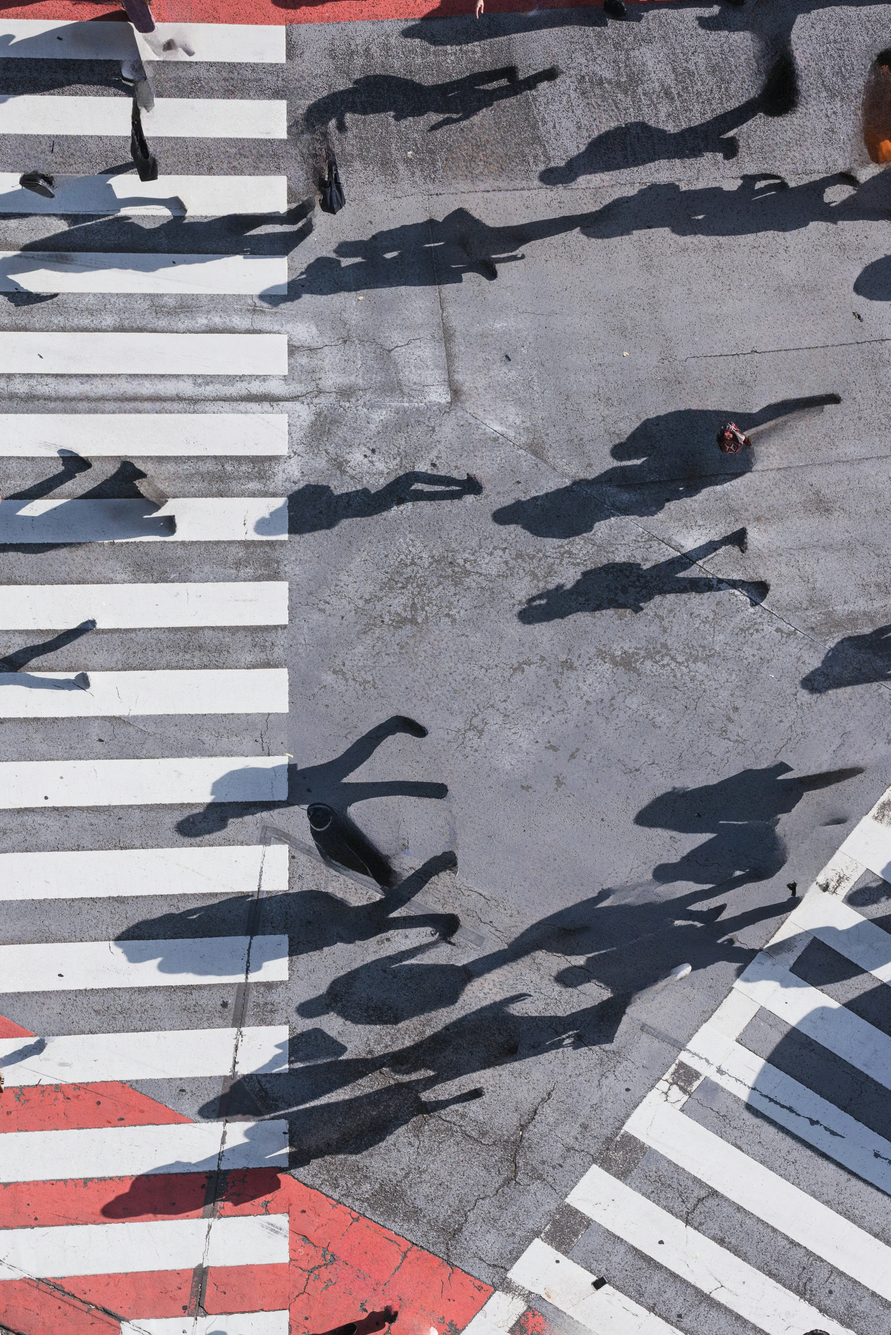
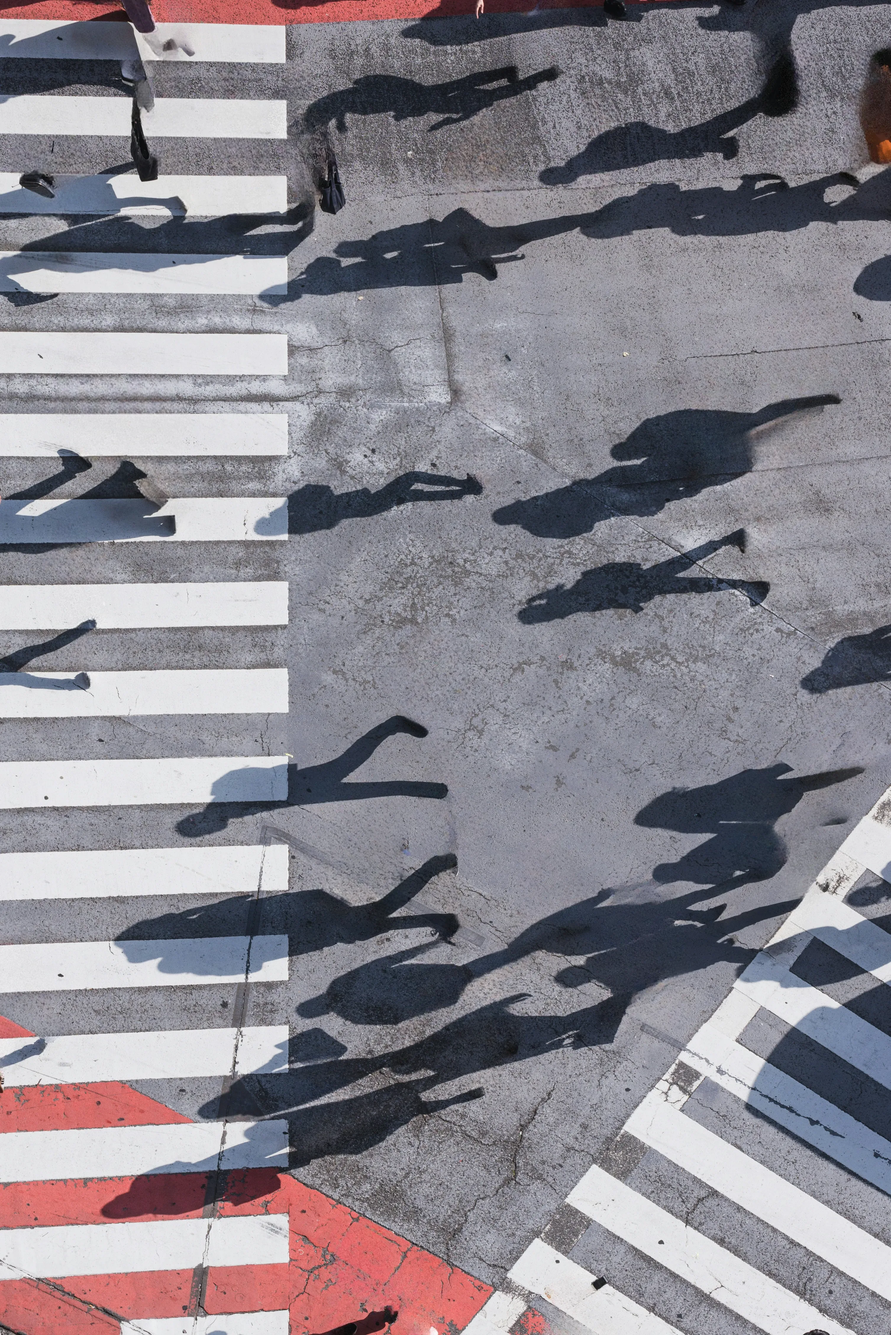
Lab: climb concourse round 1
Claude-Session: https://claude.ai/code/session_01RqENhngNCzDFmJWDZueXGV

diff --git a/src/app/lab/concourse/concourseEngine.js b/src/app/lab/concourse/concourseEngine.js
@@ -206,28 +206,26 @@ void main() {
   if (vFace < 0.5) {
     vec2 uv = photoPx(vRest) / uPhoto;
     vec3 a = texture(uFloor, uv).rgb;
-    // A lightbox: a diffuser lit evenly from inside. The road's tone is
-    // compressed almost flat (a fifteenth power keeps about 15% of the
-    // asphalt's grain and the stripes' contrast) ...
-    float l = luma(a);
-    float detail = pow(clamp(l / 0.34, 0.2, 3.0), 0.15);
-    // ... and the only real dark on it is the person's own shadow, read
-    // from a softened copy of the road (sunlit asphalt sits near 0.3, a
-    // shadow under 0.05) and laid on as a soft multiply
-    float ls = luma(texture(uFloor, uv, 3.0).rgb);
-    float shade = 1.0 - smoothstep(0.035, 0.17, ls);
-    detail = mix(detail, 1.0, shade); // the grain inside a shadow is the shadow's
-    float shadow = mix(1.0, 0.42, shade);
-    // brightest in the middle of the panel, easing off towards its frame
+    // A lightbox: the tile's patch of road is a transparency on a diffuser
+    // lit from inside. What comes through is the road itself, its asphalt
+    // (about 0.26 linear) and its stripes (about 0.78) scaled by the panel's
+    // gain, so the grain, the stripe edges and the person's own shadow all
+    // stay in the print ...
     vec2 r = (vUv - 0.5) * 2.0;
     float d2 = dot(r * r, vec2(0.5)) + 0.5 * max(r.x * r.x, r.y * r.y);
-    float grad = 1.06 - 0.24 * d2;
+    // ... the lamp behind it sits in the middle, so the panel is hottest
+    // there and falls off softly towards its frame ...
+    float centre = exp(-1.9 * d2);
+    float gain = (uRed > 0.5 ? 2.2 : 1.85) * (0.68 + 0.6 * centre);
+    // ... with a little of the lamp showing straight through the print
+    vec3 gel = uRed > 0.5 ? vec3(1.3, 0.05, 0.025) : uLight;
+    vec3 x = gel * uEmit * (a * gain + 0.07 * centre);
+    // the diffuser saturates softly: the stripes land near paper white
+    // without flattening, the asphalt stays a grainy light grey
+    const float W = 1.02;
+    vec3 panel = W * (1.0 - exp(-x / W));
     float frame = smoothstep(0.0, 0.035, min(min(vUv.x, 1.0 - vUv.x), min(vUv.y, 1.0 - vUv.y)));
-    grad *= 0.8 + 0.2 * frame;
-    // white panels are a warm paper white; a red gel runs hot in the middle,
-    // where the light through it is strongest
-    vec3 Lt = uRed > 0.5 ? mix(vec3(1.1, 0.035, 0.018), vec3(1.45, 0.15, 0.07), smoothstep(0.8, 0.0, d2)) : uLight * 1.5;
-    vec3 panel = Lt * uEmit * detail * shadow * grad;
+    panel *= 0.82 + 0.18 * frame;
     // the road goes to the panel as the lights go out
     float lb = smoothstep(0.08, 0.8, uGlow);
     o = vec4(mix(a, panel, lb), 1.0);
@@ -308,25 +306,19 @@ void main() {
   vec2 sz = uRect.zw - uRect.xy;
   if (q.x < 0.0 || q.y < 0.0 || q.x > sz.x || q.y > sz.y) discard;
   vec4 c = texture(uAtlas, (q + uAt) / uAtlasSize);
-  // choke the matte's outer tenth: that rim is part road (often a white
-  // stripe), which reads as a halo once the road is gone
-  c.a = clamp((c.a - 0.22) / 0.78, 0.0, 1.0);
+  // the bake choked the matte and bled the person's own colour into its rim
+  // (defringe.py); a last small choke keeps the very edge off the road
+  c.a = clamp((c.a - 0.1) / 0.9, 0.0, 1.0);
   if (c.a < 0.004) discard;
-  // Up-light from the panel under their feet: strongest at the shoes, gone
-  // by the waist; a red gel reaches further and washes them in its colour.
-  // The street's daylight goes out with the lights, so above it they settle.
-  float reach = uRed > 0.5 ? 0.7 : 0.34;
-  float f = exp(-vH / reach);
-  vec3 day = c.rgb * mix(1.0, 0.68 + 0.32 * f, uGlow);
-  vec3 up = uLight * uEmit * f;
-  // the light wraps round their outline (trouser seams, shoe edges, hems):
-  // a rim wherever the matte thins out within a few pixels
-  vec2 at = (q + uAt) / uAtlasSize, px = 3.0 / uAtlasSize;
+  // They keep the photograph's colour: the panel lights the road, not them.
+  // All it gives them is a thin rim where the light grazes their lower
+  // outline (shoe edges, hems), gone by the knee.
+  vec2 at = (q + uAt) / uAtlasSize, px = 1.5 / uAtlasSize;
   float m = min(min(texture(uAtlas, at + vec2(px.x, 0.0)).a, texture(uAtlas, at - vec2(px.x, 0.0)).a),
                 min(texture(uAtlas, at + vec2(0.0, px.y)).a, texture(uAtlas, at - vec2(0.0, px.y)).a));
-  float rim = 1.0 - smoothstep(0.3, 0.95, m);
-  float red = uRed > 0.5 ? 1.0 : 0.0;
-  vec3 lit = day * (1.0 + up * mix(1.6, 3.0, red)) + up * (mix(0.12, 0.7, red) + rim * mix(0.7, 2.4, red));
+  float rim = 1.0 - smoothstep(0.35, 0.95, m);
+  float low = exp(-vH / 0.12);
+  vec3 lit = c.rgb + uLight * uEmit * rim * low * (uRed > 0.5 ? 1.1 : 0.45);
   o = vec4(lit * c.a * uDim, c.a);
 }`;
 

diff --git a/tools/depth/bakes/concourse/plate_patch.py b/tools/depth/bakes/concourse/plate_patch.py
@@ -1,0 +1,112 @@
+"""Step 4 (optional): patch what the people-free plate still shows of people.
+
+    python3 -I tools/depth/bakes/concourse/plate_patch.py <outdir>
+
+Run on the baked assets (floor.webp, people.webp, scene.json in <outdir>).
+The tile tops print the plate at a lightbox's gain, so leftovers that read
+as dark road under the old flat panel show plainly: a trouser leg LaMa
+never repainted, a shoe the matte missed, a figure the detector never
+found. Two kinds of hole, each refilled with LaMa and the road's own grain:
+
+  residue  under every person's matte, the pixels where the plate still
+           matches the photograph's colour (which the atlas carries), i.e.
+           the person was never painted out there: closed, kept where it
+           forms a patch of 150 px or more, grown 5 px.
+  boxes    BOXES below, export px, for what no matte covers.
+
+Only holes that reach a tile's footprint or its spill are refilled.
+
+Writes floor.webp in place. It is safe to run twice: a patched spot no
+longer matches the atlas, and a box refilled again is still plain road.
+"""
+import sys
+import os
+import json
+
+import numpy as np
+import cv2
+from PIL import Image
+
+HERE = os.path.dirname(os.path.abspath(__file__))
+sys.path.insert(0, os.path.join(HERE, "..", ".."))
+import kit  # noqa: E402
+import fill as fillmod  # noqa: E402
+
+# x0, y0, x1, y1 in export px
+BOXES = [
+    (2412, 1414, 2550, 1538),  # a figure in a plaid shirt the detector missed (tile 9)
+    (2254, 3244, 2349, 3321),  # a white shoe left behind (tiles 17, 20)
+    (2648, 2964, 2708, 3042),  # a dark hand or hair blob (tile 17)
+    (1036, 2700, 1350, 3030),  # a figure in black LaMa grew back beside person 26 (tile 18)
+]
+
+OUT = sys.argv[1]
+S = json.load(open(os.path.join(OUT, "scene.json")))
+plate = np.asarray(Image.open(os.path.join(OUT, "floor.webp")).convert("RGB")).astype(np.float32) / 255
+atlas = np.asarray(Image.open(os.path.join(OUT, "people.webp")).convert("RGBA")).astype(np.float32) / 255
+EH, EW = plate.shape[:2]
+
+hole = np.zeros((EH, EW), bool)
+for p in S["people"]:
+    x0, y0, x1, y1 = p["rect"]
+    ax, ay = p["at"]
+    w, h = x1 - x0, y1 - y0
+    A = atlas[ay:ay + h, ax:ax + w]
+    F = plate[y0:y0 + h, x0:x0 + w]
+    same = (A[..., 3] > 0.5) & (np.abs(A[..., :3] - F).max(-1) < 0.055)
+    # a leftover is a patch; scattered specks are a dark coat that happens to
+    # match dark road
+    same = cv2.morphologyEx(same.astype(np.uint8), cv2.MORPH_CLOSE, cv2.getStructuringElement(cv2.MORPH_ELLIPSE, (9, 9))) > 0
+    n, cc, st, _ = cv2.connectedComponentsWithStats(same.astype(np.uint8), 8)
+    keep = np.zeros_like(same)
+    for k in range(1, n):
+        if st[k, cv2.CC_STAT_AREA] >= 150:
+            keep |= cc == k
+    hole[y0:y0 + h, x0:x0 + w] |= keep
+for x0, y0, x1, y1 in BOXES:
+    hole[y0:y1, x0:x1] = True
+hole = kit.dilate(hole, 5)
+# only the road a slab prints or its light spills on matters; everything
+# else goes dark with the street
+N_, D_, E1, E2 = (np.array(S[k], np.float64) for k in ("n", "d", "e1", "e2"))
+f_, cx_, cy_ = S["f"], S["cx"], S["cy"]
+near = np.zeros_like(hole)
+for t in S["tiles"]:
+    u0, v0, u1, v1 = t["r"]
+    pad = 0.5  # m, the spill's reach
+    pts = []
+    for u, v in ((u0 - pad, v0 - pad), (u1 + pad, v0 - pad), (u1 + pad, v1 + pad), (u0 - pad, v1 + pad)):
+        X = u * E1 + v * E2
+        X = X - N_ * (X @ N_ + D_)
+        pts.append((f_ * X[0] / X[2] + cx_, f_ * X[1] / X[2] + cy_))
+    m = np.zeros(hole.shape, np.uint8)
+    cv2.fillConvexPoly(m, np.round(np.array(pts)).astype(np.int32), 1)
+    near |= m > 0
+n0, cc0 = cv2.connectedComponents(hole.astype(np.uint8), connectivity=8)
+touch = np.unique(cc0[near & hole])
+hole = np.isin(cc0, touch[touch > 0])
+print("hole px", int(hole.sum()))
+
+n, cc, st, _ = cv2.connectedComponentsWithStats(hole.astype(np.uint8), 8)
+print("holes", n - 1, "largest", int(st[1:, cv2.CC_STAT_AREA].max()) if n > 1 else 0, flush=True)
+if os.environ.get("DRY") == "1":
+    sys.exit(0)
+# one LaMa pass per hole at 512 on a crop round it (as plate_fix.py), the
+# road's grain matched back in, the edge feathered a few px into the plate
+lama = fillmod.Lama(threads=4)
+for k in range(1, n):
+    x, y, w, h = st[k, :4]
+    side = min(min(EW, EH), max(int(max(w, h) * 2.4), 160))
+    cx, cy = x + w // 2, y + h // 2
+    X0, Y0 = int(np.clip(cx - side // 2, 0, EW - side)), int(np.clip(cy - side // 2, 0, EH - side))
+    crop = plate[Y0:Y0 + side, X0:X0 + side]
+    sh = cc[Y0:Y0 + side, X0:X0 + side] == k
+    rgb = cv2.resize(crop, (512, 512), interpolation=cv2.INTER_AREA)
+    hm = cv2.resize(sh.astype(np.uint8), (512, 512), interpolation=cv2.INTER_NEAREST) > 0
+    hm = kit.dilate(hm, 1)
+    back = cv2.resize(lama(rgb, hm), (side, side), interpolation=cv2.INTER_CUBIC)
+    back = fillmod.match_grain(back, crop, sh, seed=int(k))
+    wgt = cv2.GaussianBlur(kit.dilate(sh, 2).astype(np.float32), (0, 0), 1.5)
+    crop[:] = crop * (1 - wgt[..., None]) + np.clip(back, 0, 1) * wgt[..., None]
+    print("  patched", (int(x), int(y), int(w), int(h)), flush=True)
+Image.fromarray((np.clip(plate, 0, 1) * 255 + 0.5).astype(np.uint8)).save(os.path.join(OUT, "floor.webp"), quality=82, method=6)

diff --git a/tools/depth/bakes/concourse/defringe.py b/tools/depth/bakes/concourse/defringe.py
@@ -1,0 +1,79 @@
+"""Defringe the concourse people atlas: choke the SAM matte and decontaminate its rim.
+
+    python3 -I tools/depth/bakes/concourse/defringe.py <people.webp in> <people.webp out> [erode_px]
+
+The atlas carries the photograph's own colour under every matte, so a
+pixel on the matte's soft rim is part person and part road: sunlit asphalt
+or, worse, a white zebra stripe. Once the road goes dark that road light
+shows as a thin white halo. Two fixes, both at the atlas's own resolution
+(export px; about one device px at DPR 2):
+
+  choke    the alpha is eroded by `erode_px` (default 1.5) with a grey
+           morphological min over a disc, so the rim moves inward
+           and the soft edge keeps its width.
+  bleed    every pixel that is not solidly inside the person (alpha under
+           0.97 after the choke, or within a pixel of such a pixel) takes its
+           colour from the solid interior nearby: a normalised convolution
+           of interior colour over growing radii, so the rim carries the
+           coat's or the hair's colour, not the road's.
+
+bake.py runs `defringe` on the atlas before it writes it. The command line
+form exists for re-processing an atlas that was baked before this step.
+Running it twice on the same atlas erodes it twice.
+"""
+import sys
+
+import numpy as np
+import cv2
+from PIL import Image
+
+
+def _disc(r):
+    k = int(np.ceil(r))
+    yy, xx = np.mgrid[-k:k + 1, -k:k + 1]
+    return (xx * xx + yy * yy <= r * r + 1e-6).astype(np.uint8)
+
+
+def defringe(rgba, erode_px=1.5):
+    """rgba: float32 HxWx4 in 0..1 (sRGB colour, straight alpha). Returns the same shape."""
+    rgb = rgba[..., :3].astype(np.float32)
+    a = rgba[..., 3].astype(np.float32)
+    # choke: an integer disc erode, then a blend between the two nearest
+    # integer radii for the fractional part
+    lo = int(np.floor(erode_px))
+    fr = erode_px - lo
+    a_lo = cv2.erode(a, _disc(lo)) if lo > 0 else a
+    a_hi = cv2.erode(a, _disc(lo + 1))
+    a2 = a_lo * (1 - fr) + a_hi * fr
+    # decontaminate: interior colour bled outward
+    solid = (a2 >= 0.97).astype(np.uint8)
+    solid = cv2.erode(solid, _disc(1)).astype(np.float32)  # one more pixel in, clear of any road
+    out = rgb.copy()
+    need = (a2 > 0.002) & (solid < 0.5)
+    lin = np.where(rgb <= 0.04045, rgb / 12.92, ((rgb + 0.055) / 1.055) ** 2.4)
+    acc = np.zeros_like(lin)
+    wacc = np.zeros(a.shape, np.float32)
+    filled = np.zeros(a.shape, bool)
+    for sigma in (1.0, 2.0, 4.0, 8.0):
+        w = cv2.GaussianBlur(solid, (0, 0), sigma)
+        c = cv2.GaussianBlur(lin * solid[..., None], (0, 0), sigma)
+        ok = (w > 0.02) & ~filled & need
+        acc[ok] = c[ok] / w[ok, None]
+        wacc[ok] = 1
+        filled |= ok
+    # a sliver with no interior at all (a strap, a wisp of hair) keeps its
+    # own colour but darkened, never road-bright
+    rest = need & ~filled
+    acc[rest] = lin[rest] * 0.6
+    bled = np.where(acc <= 0.0031308, acc * 12.92, 1.055 * np.power(np.maximum(acc, 0), 1 / 2.4) - 0.055)
+    out[need] = bled[need]
+    return np.dstack([np.clip(out, 0, 1), np.clip(a2, 0, 1)]).astype(np.float32)
+
+
+if __name__ == "__main__":
+    src, dst = sys.argv[1:3]
+    er = float(sys.argv[3]) if len(sys.argv) > 3 else 1.5
+    im = np.asarray(Image.open(src).convert("RGBA")).astype(np.float32) / 255
+    res = defringe(im, er)
+    print("alpha mass", round(float(im[..., 3].sum()), 0), "->", round(float(res[..., 3].sum()), 0))
+    Image.fromarray((res * 255 + 0.5).astype(np.uint8), "RGBA").save(dst, quality=92, alpha_quality=100, method=6)

diff --git a/tools/depth/bakes/concourse/bake.py b/tools/depth/bakes/concourse/bake.py
@@ -29,7 +29,8 @@ Order: detect.py, segment.py, tools/depth/normals.py <photo> <workdir>/moge
 --model vits, plate.py, plate_fix.py <workdir> 15 26 31, then this.
 
 Writes <outdir>/floor.webp, people.webp (an atlas: the photo's colour over
-each person's rect, their matte in alpha) and scene.json, plus tiles.jpg
+each person's rect, their matte in alpha, choked and
+decontaminated by defringe.py) and scene.json, plus tiles.jpg
 (a preview) in workdir.
 """
 import sys
@@ -42,8 +43,10 @@ from PIL import Image
 
 HERE = os.path.dirname(os.path.abspath(__file__))
 sys.path.insert(0, os.path.join(HERE, "..", ".."))
+sys.path.insert(0, HERE)
 import kit  # noqa: E402
 import fill as fillmod  # noqa: E402
+from defringe import defringe  # noqa: E402
 
 PHOTO, WORK, OUT = sys.argv[1:4]
 os.makedirs(OUT, exist_ok=True)
@@ -390,6 +393,9 @@ for it in items:
     h, w = it["a"].shape
     atlas[ay:ay + h, ax:ax + w, :3] = it["rgb"]
     atlas[ay:ay + h, ax:ax + w, 3] = it["a"]
+# choke the matte 1.5 px and bleed the person's own colour into its rim, so
+# no road (a white stripe, sunlit asphalt) rides along as a halo
+atlas = defringe(atlas, 1.5)
 Image.fromarray((np.clip(atlas, 0, 1) * 255 + 0.5).astype(np.uint8), "RGBA").save(os.path.join(OUT, "people.webp"), quality=92, alpha_quality=100, method=6)
 print("atlas", ATW, ATH)
 
